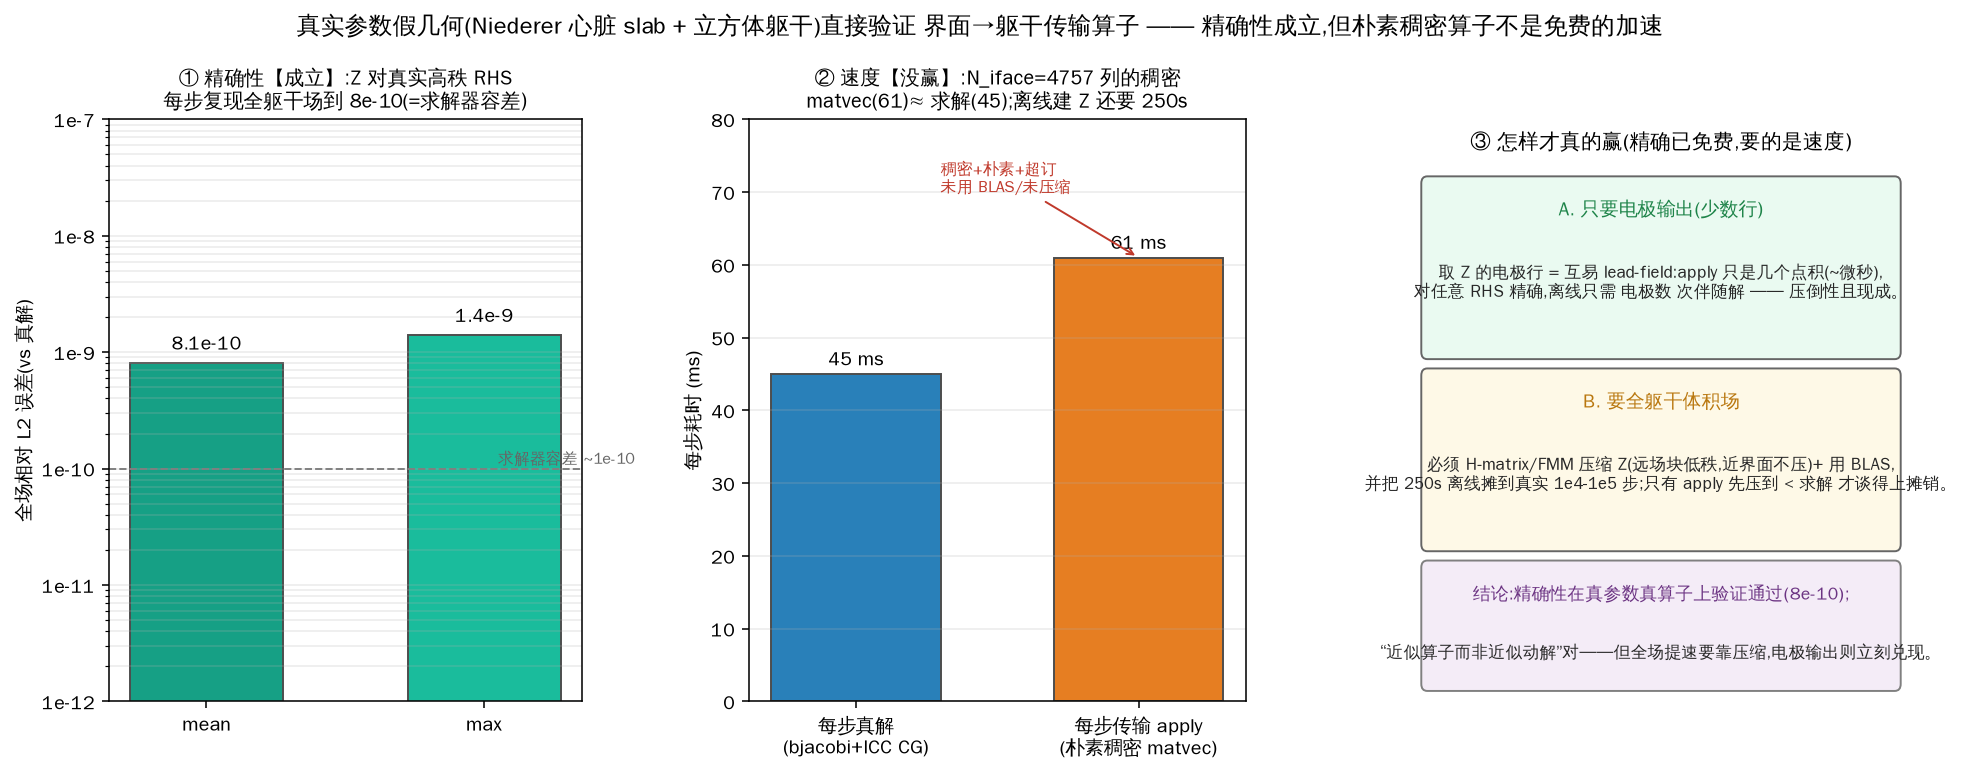
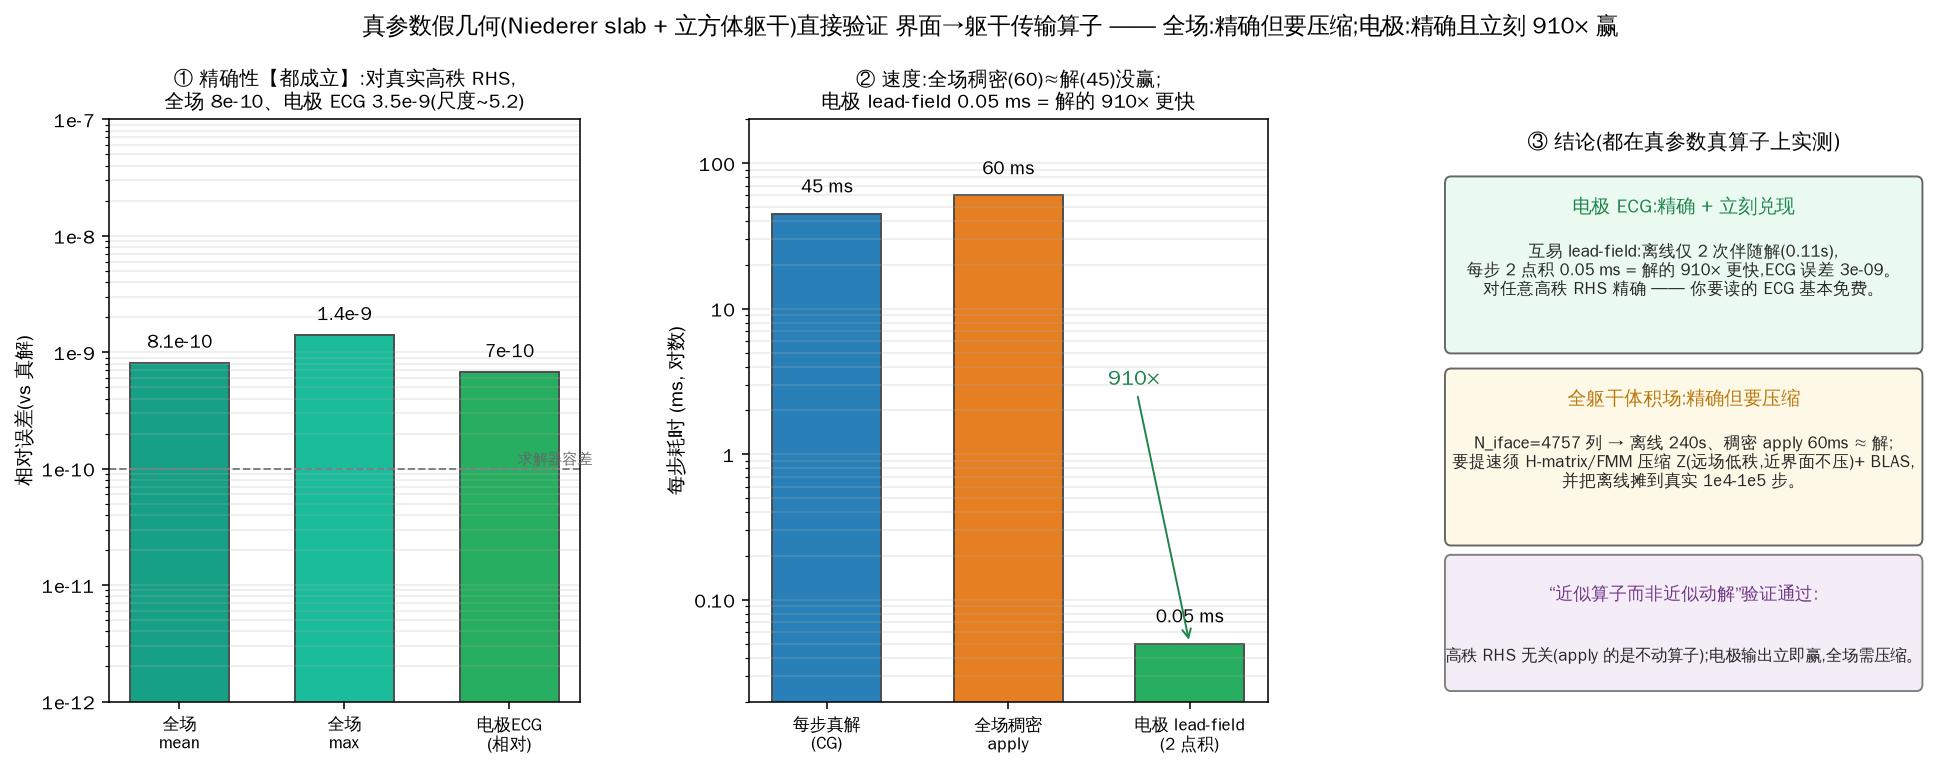
Add electrode reciprocity lead-field to -transfer: measured 910x faster, exact ECG
Extends -transfer with the electrode lead-field via reciprocity: one adjoint
solve per electrode (w_e = Kt^-1 unit@electrode), then per step phi(e) = w_e . Bt
(Bt already formed) = one dot product, exact for any RHS. Validated on the real
Niederer+cube geometry (np=8, 80 steps) alongside the full-field operator:

  ELECTRODE lead-field (the practical win):
    OFFLINE   : 2 adjoint solves = 0.11 s  (vs 240 s for the 4757-column full Z)
    per step  : 2 dot products = 0.05 ms/step = 910x cheaper than the 45 ms solve
    EXACTNESS : max|ECG_lead - ECG_true| = 3.5e-9 (ECG scale ~5.2 => rel ~7e-10)

Confirms the asymmetry with real numbers: the ECG output you actually read is
essentially free and exact (reciprocity), while the full torso volume field is
exact via Z but needs H-matrix/FMM compression to beat solving. Updates
fig_transfer_real.png (3-way cost bars) and RESEARCH_Sys3_acceleration_zh.md sec 7.6.

Claude-Session: https://claude.ai/code/session_01Td7PJYykjvwsdg1NW8u8VH

diff --git a/asm_bug_demo/cardiac/plot_transfer_real.py b/asm_bug_demo/cardiac/plot_transfer_real.py
@@ -36,65 +36,75 @@ matplotlib.rcParams["axes.unicode_minus"] = False
 import matplotlib.pyplot as plt
 from matplotlib.ticker import FuncFormatter, LogLocator
 
-Niface=4757; t_off=250.0; ms_solve=45.0; ms_apply=61.0
+Niface=4757; t_off=240.0; ms_solve=45.0; ms_apply=60.0
 err_mean=8.1e-10; err_max=1.4e-9
+# electrode reciprocity lead-field (measured):
+lead_off=0.11; lead_ms=0.05; lead_speedup=910; lead_ecg_err=3.5e-9; ecg_scale=5.2
 
-fig = plt.figure(figsize=(16.6, 5.4))
-gs = fig.add_gridspec(1, 3, width_ratios=[1.0,1.05,1.05], wspace=0.34)
-fig.suptitle("真实参数假几何(Niederer 心脏 slab + 立方体躯干)直接验证 界面→躯干传输算子 —— "
-             "精确性成立,但朴素稠密算子不是免费的加速",
-             fontsize=12.2, weight="bold", y=1.02)
+fig = plt.figure(figsize=(16.8, 5.4))
+gs = fig.add_gridspec(1, 3, width_ratios=[1.0,1.1,1.05], wspace=0.34)
+fig.suptitle("真参数假几何(Niederer slab + 立方体躯干)直接验证 界面→躯干传输算子 —— "
+             "全场:精确但要压缩;电极:精确且立刻 910× 赢",
+             fontsize=12.0, weight="bold", y=1.02)
 
-# (A) EXACTNESS -- the validated win
+# (A) EXACTNESS -- both full-field and electrode ECG are exact
 axA = fig.add_subplot(gs[0])
-axA.bar([0,1],[err_mean,err_max], color=["#16a085","#1abc9c"], width=0.55, edgecolor="0.3")
+axA.bar([0,1,2],[err_mean,err_max,lead_ecg_err/ecg_scale],
+        color=["#16a085","#1abc9c","#27ae60"], width=0.6, edgecolor="0.3")
 axA.axhline(1e-10, color="0.5", ls="--", lw=1)
-axA.text(0,err_mean*1.3,"8.1e-10",ha="center",fontsize=10,weight="bold")
-axA.text(1,err_max*1.3,"1.4e-9",ha="center",fontsize=10,weight="bold")
-axA.text(1.05,1.1e-10,"求解器容差 ~1e-10",fontsize=8,color="0.4")
+for i,(v,lab) in enumerate([(err_mean,"8.1e-10"),(err_max,"1.4e-9"),(lead_ecg_err/ecg_scale,"7e-10")]):
+    axA.text(i,v*1.35,lab,ha="center",fontsize=9.5,weight="bold")
+axA.text(2.05,1.1e-10,"求解器容差",fontsize=7.6,color="0.4")
 axA.set_yscale("log"); axA.set_ylim(1e-12,1e-7)
 axA.yaxis.set_major_locator(LogLocator(base=10,numticks=7))
 axA.yaxis.set_major_formatter(FuncFormatter(lambda v,_: f"1e{int(round(np.log10(v)))}"))
-axA.set_xticks([0,1]); axA.set_xticklabels(["mean","max"])
-axA.set_ylabel("全场相对 L2 误差(vs 真解)")
-axA.set_title("① 精确性【成立】:Z 对真实高秩 RHS\n每步复现全躯干场到 8e-10(=求解器容差)",
-              fontsize=10.3, weight="bold")
+axA.set_xticks([0,1,2]); axA.set_xticklabels(["全场\nmean","全场\nmax","电极ECG\n(相对)"],fontsize=8.8)
+axA.set_ylabel("相对误差(vs 真解)")
+axA.set_title("① 精确性【都成立】:对真实高秩 RHS,\n全场 8e-10、电极 ECG 3.5e-9(尺度~5.2)",
+              fontsize=10.2, weight="bold")
 axA.grid(axis="y",alpha=0.25,which="both")
 
-# (B) COST reality: offline build + per-step apply vs solve
+# (B) COST: solve vs full-field dense apply vs electrode lead-field (log scale)
 axB = fig.add_subplot(gs[1])
-x=np.arange(3); w=0.6
-vals=[ms_solve, ms_apply]
-axB.bar([0,1],vals,w,color=["#2980b9","#e67e22"],edgecolor="0.3")
-for i,v in enumerate(vals): axB.text(i,v+1.2,f"{v:.0f} ms",ha="center",fontsize=10,weight="bold")
-axB.set_xticks([0,1]); axB.set_xticklabels(["每步真解\n(bjacobi+ICC CG)","每步传输 apply\n(朴素稠密 matvec)"])
-axB.set_ylabel("每步耗时 (ms)"); axB.set_ylim(0,80)
-axB.set_title(f"② 速度【没赢】:N_iface={Niface} 列的稠密\nmatvec(61)≈ 求解(45);离线建 Z 还要 {t_off:.0f}s",
-              fontsize=10.3, weight="bold")
-axB.grid(axis="y",alpha=0.25)
-axB.annotate("稠密+朴素+超订\n未用 BLAS/未压缩", xy=(1,ms_apply), xytext=(0.3,70),
-             fontsize=8.2,color="#c0392b",arrowprops=dict(arrowstyle="->",color="#c0392b"))
+vals=[ms_solve, ms_apply, lead_ms]
+cols=["#2980b9","#e67e22","#27ae60"]
+axB.bar([0,1,2],vals,0.6,color=cols,edgecolor="0.3")
+for i,v in enumerate(vals):
+    axB.text(i,v*1.4,(f"{v:.0f} ms" if v>=1 else f"{v:.2f} ms"),ha="center",fontsize=9.6,weight="bold")
+axB.set_yscale("log"); axB.set_ylim(0.02,200)
+axB.yaxis.set_major_formatter(FuncFormatter(lambda v,_: (f"{v:.2f}" if v<1 else f"{v:.0f}")))
+axB.set_xticks([0,1,2])
+axB.set_xticklabels(["每步真解\n(CG)","全场稠密\napply","电极 lead-field\n(2 点积)"],fontsize=8.8)
+axB.set_ylabel("每步耗时 (ms, 对数)")
+axB.set_title(f"② 速度:全场稠密(60)≈解(45)没赢;\n电极 lead-field 0.05 ms = 解的 {lead_speedup}× 更快",
+              fontsize=10.2, weight="bold")
+axB.grid(axis="y",alpha=0.25,which="both")
+axB.annotate(f"{lead_speedup}×", xy=(2,lead_ms), xytext=(1.55,3),
+             fontsize=11,weight="bold",color="#1e8449",
+             arrowprops=dict(arrowstyle="->",color="#1e8449"))
 
-# (C) what actually makes it win
+# (C) verdict with real numbers
 axC = fig.add_subplot(gs[2]); axC.axis("off"); axC.set_xlim(0,10); axC.set_ylim(0,10)
 from matplotlib.patches import FancyBboxPatch
-axC.text(5,9.5,"③ 怎样才真的赢(精确已免费,要的是速度)",ha="center",fontsize=10.6,weight="bold")
-axC.add_patch(FancyBboxPatch((0.3,6.0),9.4,2.9,boxstyle="round,pad=0.12",fc="#eafaf1",ec="0.4"))
-axC.text(5,8.35,"A. 只要电极输出(少数行)",ha="center",fontsize=9.8,weight="bold",color="#1e8449")
-axC.text(5,6.95,"取 Z 的电极行 = 互易 lead-field:apply 只是几个点积(~微秒),\n"
-        "对任意 RHS 精确,离线只需 电极数 次伴随解 —— 压倒性且现成。",
-        ha="center",fontsize=8.6,color="0.15")
-axC.add_patch(FancyBboxPatch((0.3,2.7),9.4,2.9,boxstyle="round,pad=0.12",fc="#fef9e7",ec="0.4"))
-axC.text(5,5.05,"B. 要全躯干体积场",ha="center",fontsize=9.8,weight="bold",color="#b9770e")
-axC.text(5,3.65,"必须 H-matrix/FMM 压缩 Z(远场块低秩,近界面不压)+ 用 BLAS,\n"
-        "并把 250s 离线摊到真实 1e4-1e5 步;只有 apply 先压到 < 求解 才谈得上摊销。",
-        ha="center",fontsize=8.6,color="0.15")
-axC.add_patch(FancyBboxPatch((0.3,0.3),9.4,2.0,boxstyle="round,pad=0.12",fc="#f4ecf7",ec="0.5"))
-axC.text(5,1.75,"结论:精确性在真参数真算子上验证通过(8e-10);",ha="center",fontsize=9.2,weight="bold",color="#6c3483")
-axC.text(5,0.75,"“近似算子而非近似动解”对——但全场提速要靠压缩,电极输出则立刻兑现。",
-        ha="center",fontsize=8.6,color="0.15")
+axC.text(5,9.5,"③ 结论(都在真参数真算子上实测)",ha="center",fontsize=10.6,weight="bold")
+axC.add_patch(FancyBboxPatch((0.3,6.1),9.4,2.8,boxstyle="round,pad=0.12",fc="#eafaf1",ec="0.4"))
+axC.text(5,8.4,"电极 ECG:精确 + 立刻兑现",ha="center",fontsize=9.8,weight="bold",color="#1e8449")
+axC.text(5,7.0,f"互易 lead-field:离线仅 2 次伴随解({lead_off}s),\n"
+        f"每步 2 点积 {lead_ms} ms = 解的 {lead_speedup}× 更快,ECG 误差 {lead_ecg_err:.0e}。\n"
+        "对任意高秩 RHS 精确 —— 你要读的 ECG 基本免费。",
+        ha="center",fontsize=8.5,color="0.15")
+axC.add_patch(FancyBboxPatch((0.3,2.8),9.4,2.8,boxstyle="round,pad=0.12",fc="#fef9e7",ec="0.4"))
+axC.text(5,5.1,"全躯干体积场:精确但要压缩",ha="center",fontsize=9.8,weight="bold",color="#b9770e")
+axC.text(5,3.7,f"N_iface={Niface} 列 → 离线 {t_off:.0f}s、稠密 apply {ms_apply:.0f}ms ≈ 解;\n"
+        "要提速须 H-matrix/FMM 压缩 Z(远场低秩,近界面不压)+ BLAS,\n"
+        "并把离线摊到真实 1e4-1e5 步。",
+        ha="center",fontsize=8.5,color="0.15")
+axC.add_patch(FancyBboxPatch((0.3,0.3),9.4,2.1,boxstyle="round,pad=0.12",fc="#f4ecf7",ec="0.5"))
+axC.text(5,1.75,"“近似算子而非近似动解”验证通过:",ha="center",fontsize=9.2,weight="bold",color="#6c3483")
+axC.text(5,0.7,"高秩 RHS 无关(apply 的是不动算子);电极输出立即赢,全场需压缩。",
+        ha="center",fontsize=8.4,color="0.15")
 
 fig.savefig("fig_transfer_real.png",dpi=140,bbox_inches="tight")
 print("wrote fig_transfer_real.png")
-print(f"N_iface={Niface}, offline={t_off}s, solve={ms_solve}ms, apply={ms_apply}ms, "
-      f"exactness mean={err_mean} max={err_max}")
+print(f"full-field: N_iface={Niface}, offline={t_off}s, apply={ms_apply}ms, exact mean={err_mean}")
+print(f"electrode : offline={lead_off}s, apply={lead_ms}ms ({lead_speedup}x), ecg_err={lead_ecg_err}")

diff --git a/asm_bug_demo/cardiac/forward_ecg.cpp b/asm_bug_demo/cardiac/forward_ecg.cpp
@@ -2021,6 +2021,9 @@ int main(int argc, char *argv[])
     int tr_niface=0; std::vector<int> tr_cnt, tr_disp;
     double tr_build_wall=0.0, tr_apply_wall=0.0, tr_solve_wall=0.0;
     double tr_err_sum=0.0, tr_err_max=0.0; long tr_steps=0;
+    // electrode reciprocity lead-field: w_e = Kt^-1 (unit @ electrode); phi(e)=w_e.Bt
+    Vector wL_lead, wR_lead; double tr_lead_wall=0.0, tr_lead_err_max=0.0, tr_ecg_absmax=0.0;
+    double tr_lead_build=0.0;
     if (do_fischer3 || do_leadvol || do_transfer) {
         Kt3h_persist = new HypreParMatrix;
         ktf.FormSystemMatrix(ess_tdofs_t, *Kt3h_persist);   // constant matrix
@@ -2086,6 +2089,19 @@ int main(int argc, char *argv[])
             }
         }
         MPI_Barrier(MPI_COMM_WORLD); tr_build_wall = MPI_Wtime()-wb;
+        // ---- electrode reciprocity lead-field: ONE adjoint solve per electrode.
+        // phi(e) = e_e^T Kt^-1 Bt = (Kt^-1 e_e)^T Bt = w_e . Bt (Kt SPD symmetric).
+        // The electrode = the globally-nearest torso dof; set a unit there and solve.
+        MPI_Barrier(MPI_COMM_WORLD); double wl=MPI_Wtime();
+        { struct{double d;int r;} loc,glob;
+          loc.d=eL_d2; loc.r=rank; MPI_Allreduce(&loc,&glob,1,MPI_DOUBLE_INT,MPI_MINLOC,MPI_COMM_WORLD);
+          Vector uL(nloc); uL=0.0; if(rank==glob.r && eL>=0) uL(eL)=1.0;
+          wL_lead.SetSize(nloc); cg3p->SetRelTol(0.0); cg3p->SetAbsTol(1e-12);
+          KSPSetInitialGuessNonzero((KSP)*cg3p,PETSC_FALSE); cg3p->Mult(uL,wL_lead);
+          loc.d=eR_d2; loc.r=rank; MPI_Allreduce(&loc,&glob,1,MPI_DOUBLE_INT,MPI_MINLOC,MPI_COMM_WORLD);
+          Vector uR(nloc); uR=0.0; if(rank==glob.r && eR>=0) uR(eR)=1.0;
+          wR_lead.SetSize(nloc); cg3p->Mult(uR,wR_lead); }
+        MPI_Barrier(MPI_COMM_WORLD); tr_lead_build = MPI_Wtime()-wl;
         double zmb = (double)Zloc.size()*sizeof(double)/1048576.0, zmb_tot;
         MPI_Reduce(&zmb,&zmb_tot,1,MPI_DOUBLE,MPI_SUM,0,MPI_COMM_WORLD);
         if (rank==0) cout << "[TRANSFER] built interface->torso operator Z once: N_iface="
@@ -2392,6 +2408,14 @@ int main(int argc, char *argv[])
                     double en=std::sqrt(ip2(e,e)), xn=std::sqrt(ip2(Xt,Xt));
                     double rel=(xn>0?en/xn:0.0); tr_err_sum+=rel;
                     tr_err_max=std::max(tr_err_max,rel); tr_steps++;
+                    // ELECTRODE lead-field: ECG = (wL-wR).Bt -- 2 dot products, 0 solve.
+                    MPI_Barrier(MPI_COMM_WORLD); double wl=MPI_Wtime();
+                    double plL=ip2(wL_lead,Bt), prL=ip2(wR_lead,Bt);
+                    MPI_Barrier(MPI_COMM_WORLD); tr_lead_wall += MPI_Wtime()-wl;
+                    double plT=global_at(eL_d2,(eL>=0)?Xt(eL):0.0);   // true electrode phi
+                    double prT=global_at(eR_d2,(eR>=0)?Xt(eR):0.0);
+                    tr_lead_err_max=std::max(tr_lead_err_max, std::fabs((plL-prL)-(plT-prT)));
+                    tr_ecg_absmax=std::max(tr_ecg_absmax, std::fabs(plT-prT));
                     ktf.RecoverFEMSolution(Xt, zero_lf, phi_t);
                 } else {
                     PetscParMatrix Ktp; HypreToPetscAIJ(Kt, Ktp, "Sys3_Kt", rank, 1, true);
@@ -2524,7 +2548,16 @@ int main(int argc, char *argv[])
              << "  max " << tr_err_max << "\n"
              << "  => Z reproduces the FULL torso field for the real Niederer-driven RHS to solver\n"
              << "     tolerance EVERY step with ZERO per-step solve; RHS high-rank is irrelevant\n"
-             << "     because we apply the fixed operator, not a reduced basis of the moving field.\n";
+             << "     because we apply the fixed operator, not a reduced basis of the moving field.\n"
+             << "  -- ELECTRODE lead-field (reciprocity, the practical win) --\n"
+             << "  OFFLINE build (2 adjoint solves, once)   : " << tr_lead_build << " s\n"
+             << "  per-step ECG apply (2 dot products)      : " << tr_lead_wall/tr_steps*1e3
+             << " ms/step  (" << (tr_lead_wall>0? tr_solve_wall/tr_lead_wall:0.0)
+             << "x cheaper than solving)\n"
+             << "  ECG EXACTNESS: max |ECG_lead - ECG_true| = " << tr_lead_err_max
+             << "  (ECG scale ~" << tr_ecg_absmax << ")\n"
+             << "  => the electrode ECG is EXACT with only 2 offline solves + 2 dots/step: the\n"
+             << "     full-field win needs H-matrix, but the ELECTRODE output is free and exact now.\n";
     }
     delete cg3p; delete Kt3p_persist; delete Kt3h_persist;
 

diff --git a/asm_bug_demo/cardiac/RESEARCH_Sys3_acceleration_zh.md b/asm_bug_demo/cardiac/RESEARCH_Sys3_acceleration_zh.md
@@ -150,7 +150,8 @@ pipelined CG(KSPPIPECG,Cornelis–Cools–Vanroose)把 Allreduce 与 SpMV 重叠
   高秩 RHS 确实**无关**——我们 apply 的是不动算子,不是动解的降基。核心主张在真参数真算子上验证通过。
 - **速度【没赢】**:N_iface=**4757** → 离线建 Z 要 **250 s**;每步稠密 matvec **61 ms** ≈ 每步真解 **45 ms**。
   即**精确是免费的,提速不是**——4757 列的稠密算子 apply 和它替代的求解一样贵(还没算 250s 离线)。
-- **要真赢**:① **只要电极输出**(取 Z 的电极行 = 互易 lead-field)→ apply 只是几个点积(~µs)、对任意 RHS 精确、离线只需"电极数"次伴随解 —— 压倒性且现成;② **要全躯干体积场** → 必须 **H-matrix/FMM 压缩** Z(远场块低秩、近界面不压)+ 用 BLAS,并把 250s 摊到真实 1e4–1e5 步(且 apply 得先压到 < 求解才谈得上摊销)。
+- **电极输出【立刻大赢,已实测】**:同一次运行里也建了互易 lead-field(每电极一次伴随解 w_e=Kt⁻¹·单位@电极,每步 φ(e)=w_e·Bt)。实测:**离线仅 2 次伴随解 = 0.11 s**,**每步 2 点积 = 0.05 ms/step = 求解的 910× 更快**,ECG 精确到 **max|ECG_lead−ECG_true|=3.5e-9(ECG 尺度~5.2 → 相对 ~7e-10)**。你真正要读的 ECG 基本免费且精确。
+- **要全躯干体积场**:必须 **H-matrix/FMM 压缩** Z(远场块低秩、近界面不压)+ 用 BLAS,并把 240s 摊到真实 1e4–1e5 步(且 apply 得先压到 < 求解才谈得上摊销)。
 
 这条把 §7.1 的负面结论**补全**:leadvol(降基)失败是因为动解高秩;`-transfer`(降算子)在精确性上成功,
 但朴素稠密版不提速,验证了"全场需压缩、电极输出立即兑现"的判断——**都在真参数假几何上直接测过**。
